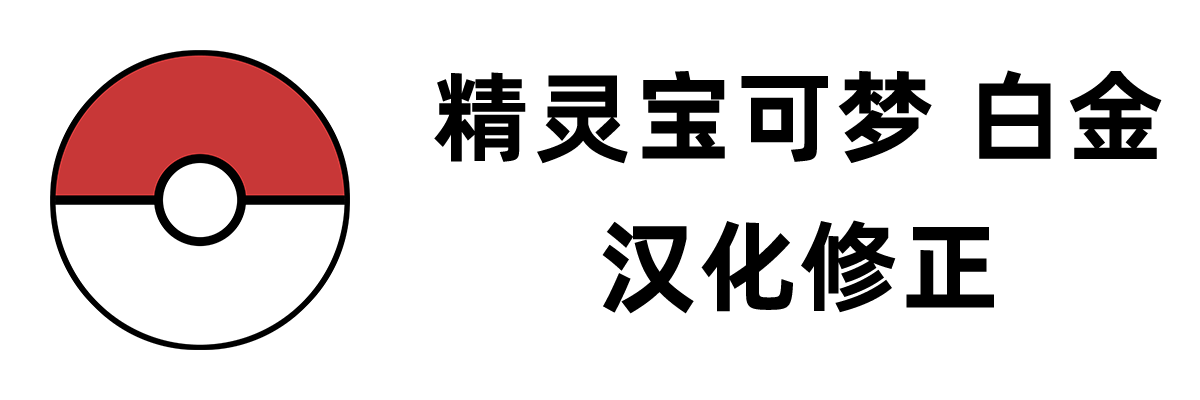
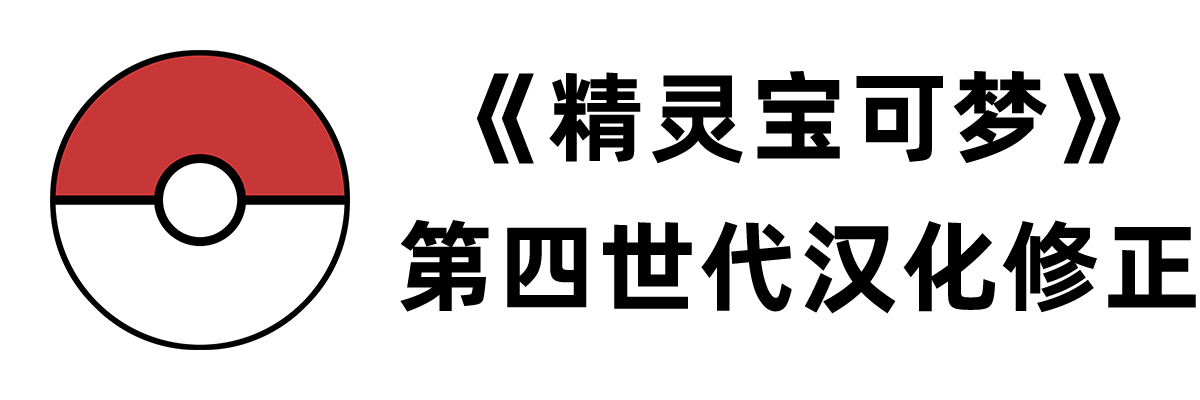
2020-02-26

Changed region(s): [[0.3083, 0.54, 1.0, 0.78], [0.3392, 0.18, 0.9867, 0.42]]

diff --git a/index.html b/index.html
@@ -1,15 +1,17 @@
 ---
 css: posts
+date: 2020-02-14 00:45
 js: posts
+last_modified_at: 2020-02-24 20:41
 layout: default
 title: 欢迎来到 Xzonn 的小站！
 ---
 <h2>导航</h2>
 <div class="row">
-    <div class="col-sm-6"><a href="/posts/Study.html"><img src="/images/header-001.png" alt="学习资料分享" class="xz-index-image"></a></div>
-    <div class="col-sm-6"><a href="/posts/Pokemon-Chinese-Translation-Revise.html"><img src="/images/header-002.png" alt="精灵宝可梦 白金 汉化修正" class="xz-index-image"></a></div>
-    <div class="col-sm-6"><a href="/LuigiMansion/"><img src="/images/header-003.png" alt="路易吉洋馆 汉化发布" class="xz-index-image"></a></div>
-    <div class="col-sm-6"><a href="/pages/"><img src="/images/header-004.png" alt="文章列表" class="xz-index-image"></a></div>
+    <div class="col-sm-6"><a href="/posts/Study.html"><img src="https://file.moetu.org/images/2020/02/24/3bf4c47b846c8e412cfb78b593849c6569e03cc75f41adff.png" alt="学习资料分享" class="xz-index-image"></a></div>
+    <div class="col-sm-6"><a href="/PokemonChineseTranslationRevise/"><img src="https://file.moetu.org/images/2020/02/24/fb9ea10a947e3c664028f41e7149964035b967f454cba322.png" alt="《精灵宝可梦》第四世代汉化修正" class="xz-index-image"></a></div>
+    <div class="col-sm-6"><a href="/LuigiMansion/"><img src="https://file.moetu.org/images/2020/02/24/d220967df92c5998102ad948ec40d77e084f68ea0bc6e43f.png" alt="路易吉洋馆 汉化发布" class="xz-index-image"></a></div>
+    <div class="col-sm-6"><a href="/pages/"><img src="https://file.moetu.org/images/2020/02/24/c0de7754587a91bee2dcd637b37a2035e5ecd03d3e29fdcc.png" alt="文章列表" class="xz-index-image"></a></div>
 </div>
 <h2 class="page-block-heading">文章一览</h2>
 <div class="page-block-list"></div>

diff --git a/_layouts/default.html b/_layouts/default.html
@@ -137,7 +137,7 @@
                     <div class="xz-infobox-bottom hidden-print"></div>
                     <div class="xz-content-comment">
                         <div id="lv-container" data-id="city" data-uid="MTAyMC80MTk5MS8xODUzOA=="></div>
-                        <script src="https://cdn-city.livere.com/js/embed.dist.js"></script>
+                        <script src="https://cdn-city.livere.com/js/embed.dist.js" async="async"></script>
                     </div>{% endunless %}
                 </div>
             </div>
@@ -151,7 +151,7 @@
                     <li><a href="/posts/About.html">关于本站</a></li>
                     <li><a href="/feed.xml">RSS</a></li>
                     <li><a href="https://github.com/Xzonn/Xzonn.github.io/">源代码</a></li>{% unless jekyll.environment == "development" %}
-                    <li><script src="https://s96.cnzz.com/z_stat.php?id=1275861247&web_id=1275861247"></script></li>{% endunless %}
+                    <li><script src="https://s96.cnzz.com/z_stat.php?id=1275861247&web_id=1275861247" async="async"></script></li>{% endunless %}
                 </ul>
             </div>
         </footer>

diff --git a/css/main.css b/css/main.css
@@ -178,6 +178,10 @@ figcaption::before, .caption-figure::before {
     max-width: 100%;
 }
 
+.xz-content-main article > .row {
+    max-width: initial;
+}
+
 .xz-content-main article > *:last-child {
     margin-bottom: 0 !important;
 }
@@ -243,6 +247,18 @@ figcaption::before, .caption-figure::before {
     .xz-table-infobox {
         float: right;
         width: 40%;
+        margin-left: 1rem;
+    }
+
+    figure.figure-left {
+        float: left;
+        clear: left;
+        margin-right: 1rem;
+    }
+    
+    figure.figure-right {
+        float: right;
+        clear: right;
         margin-left: 1rem;
     }
 }

diff --git a/pages.html b/pages.html
@@ -1,7 +1,9 @@
 ---
 css: tags
+date: 2020-02-14 00:45
 info: 本页列出了本站全部文章，以创建时间排序。
 js: tags tablesorter
+last_modified_at: 2020-02-20 12:48
 layout: default
 permalink: /pages/
 title: 文章列表

diff --git a/404.html b/404.html
@@ -1,4 +1,6 @@
 ---
+date: 2020-02-14 00:45
+last_modified_at: 2020-02-14 15:59
 layout: 
 permalink: /404.html
 ---

diff --git a/3ed03bf6c434df395805f5bddfd0637b.html b/3ed03bf6c434df395805f5bddfd0637b.html
@@ -1,0 +1,1 @@
+3ed03bf6c434df395805f5bddfd0637b
